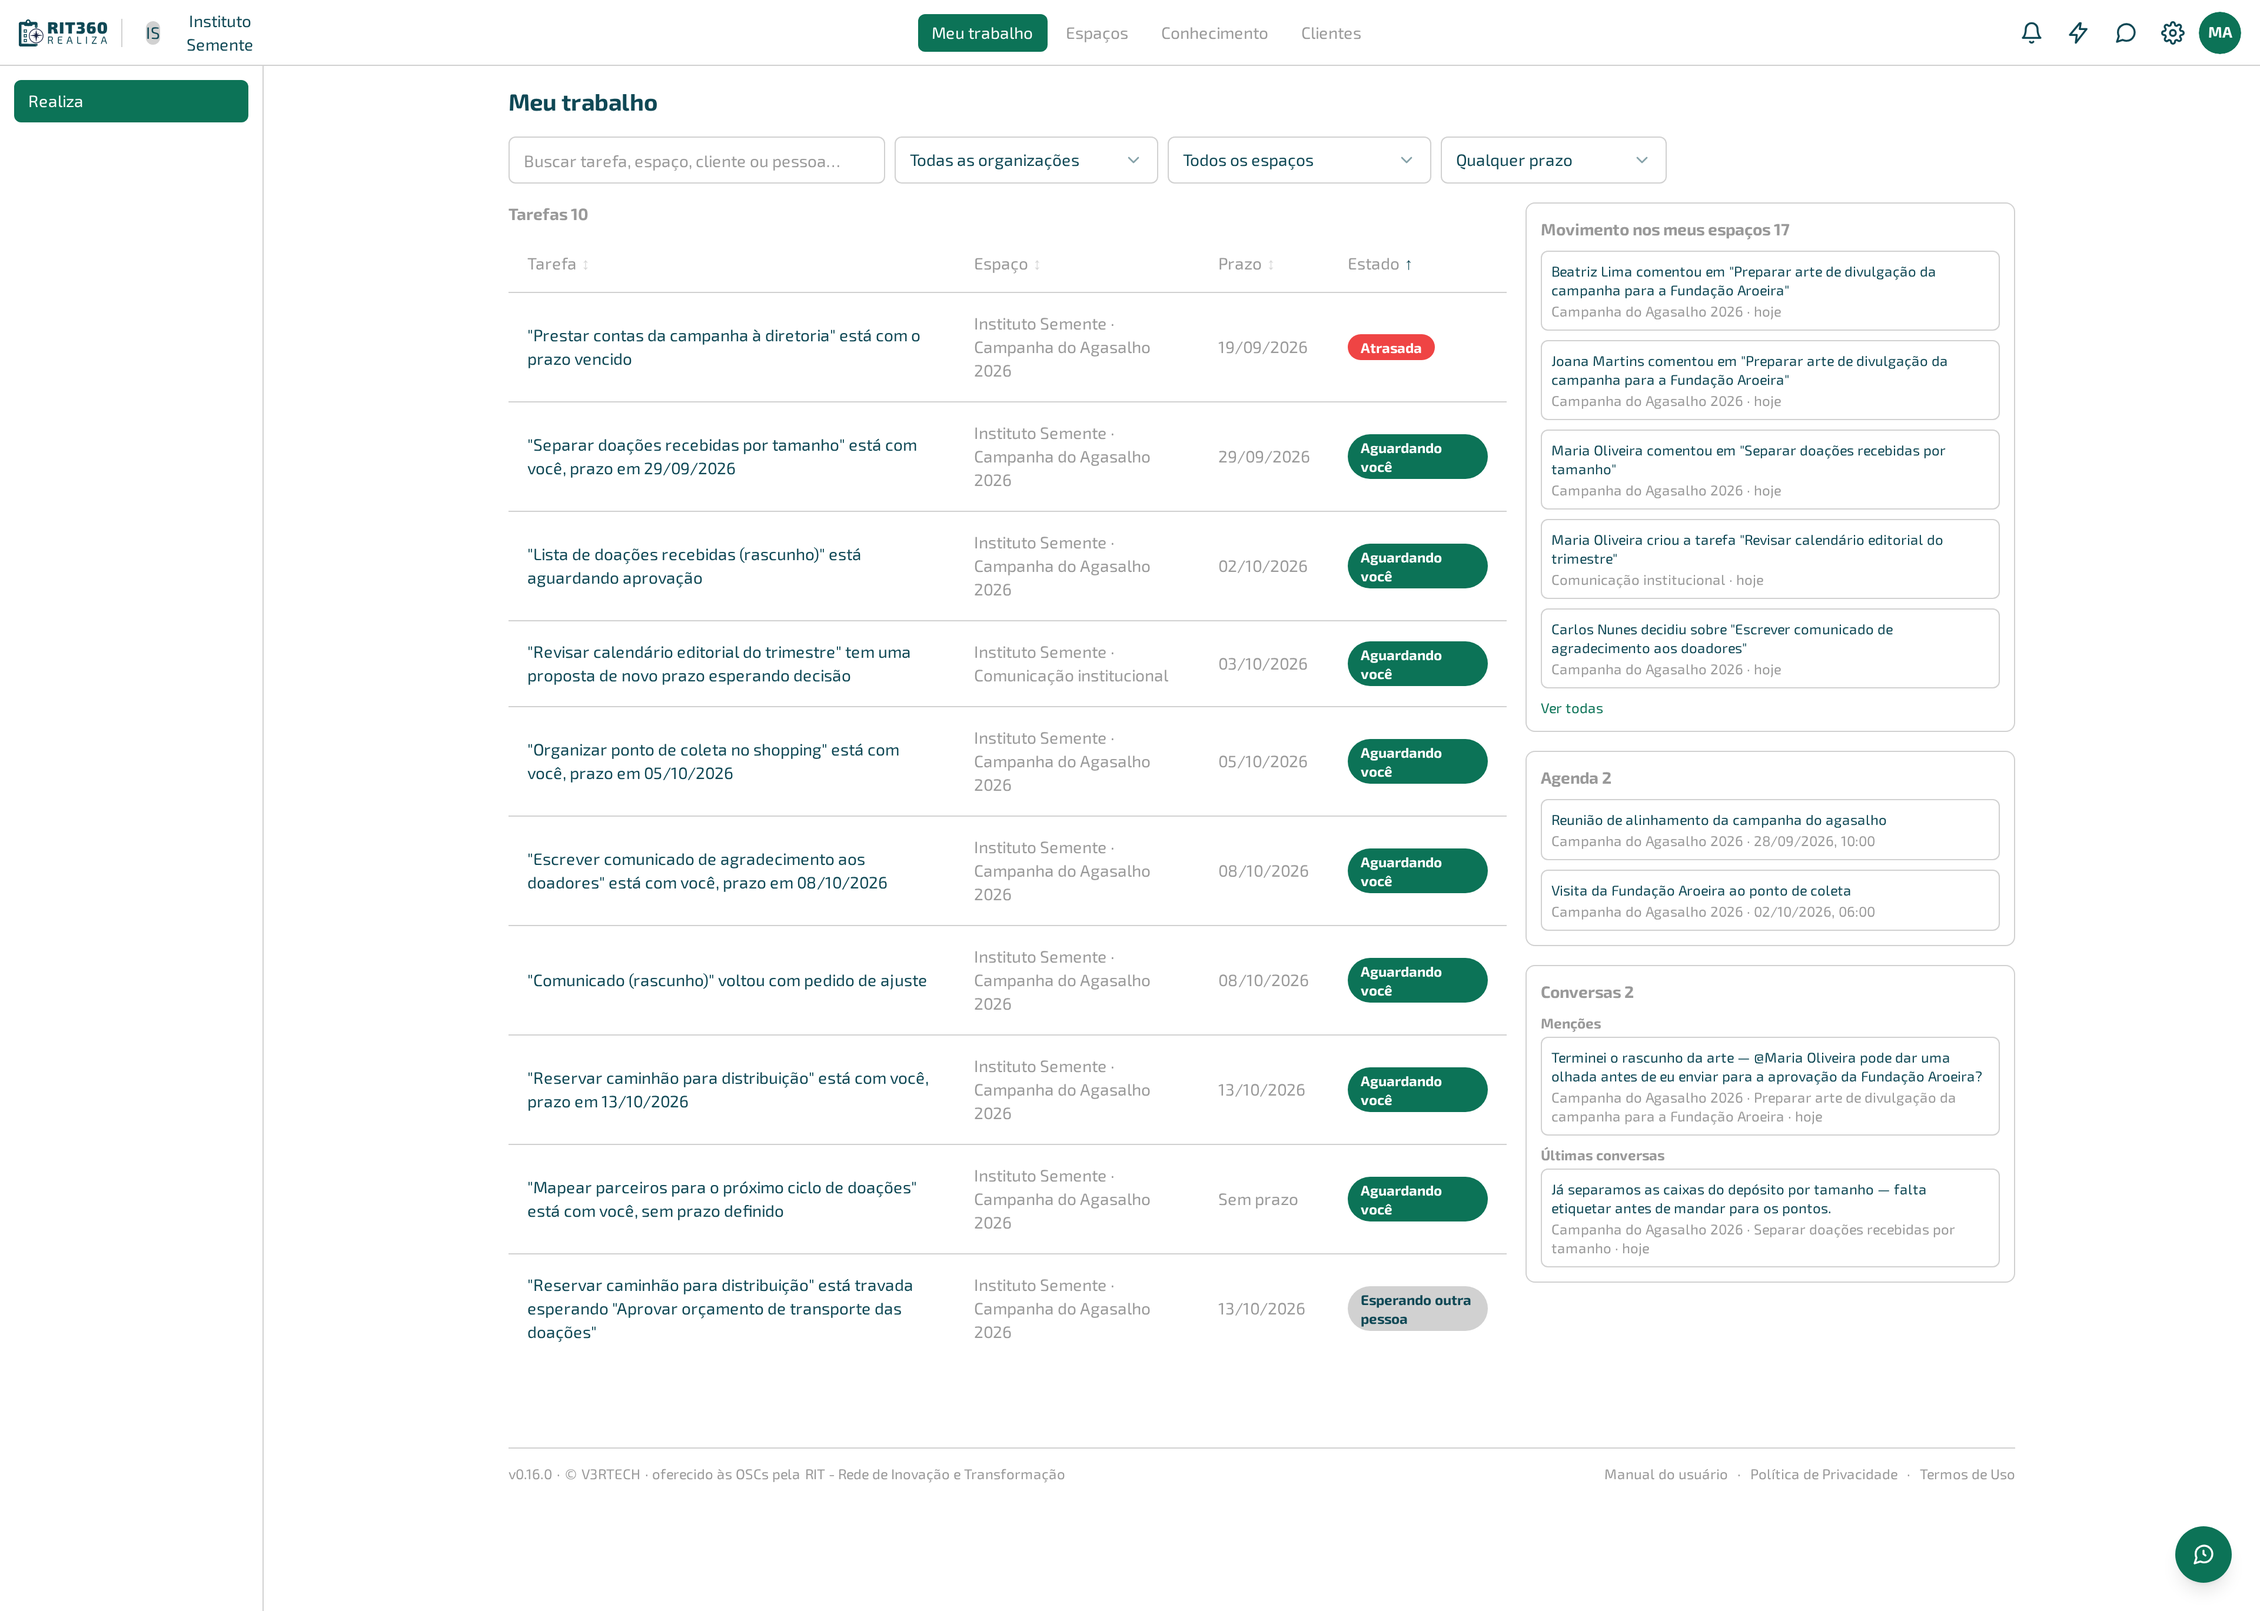
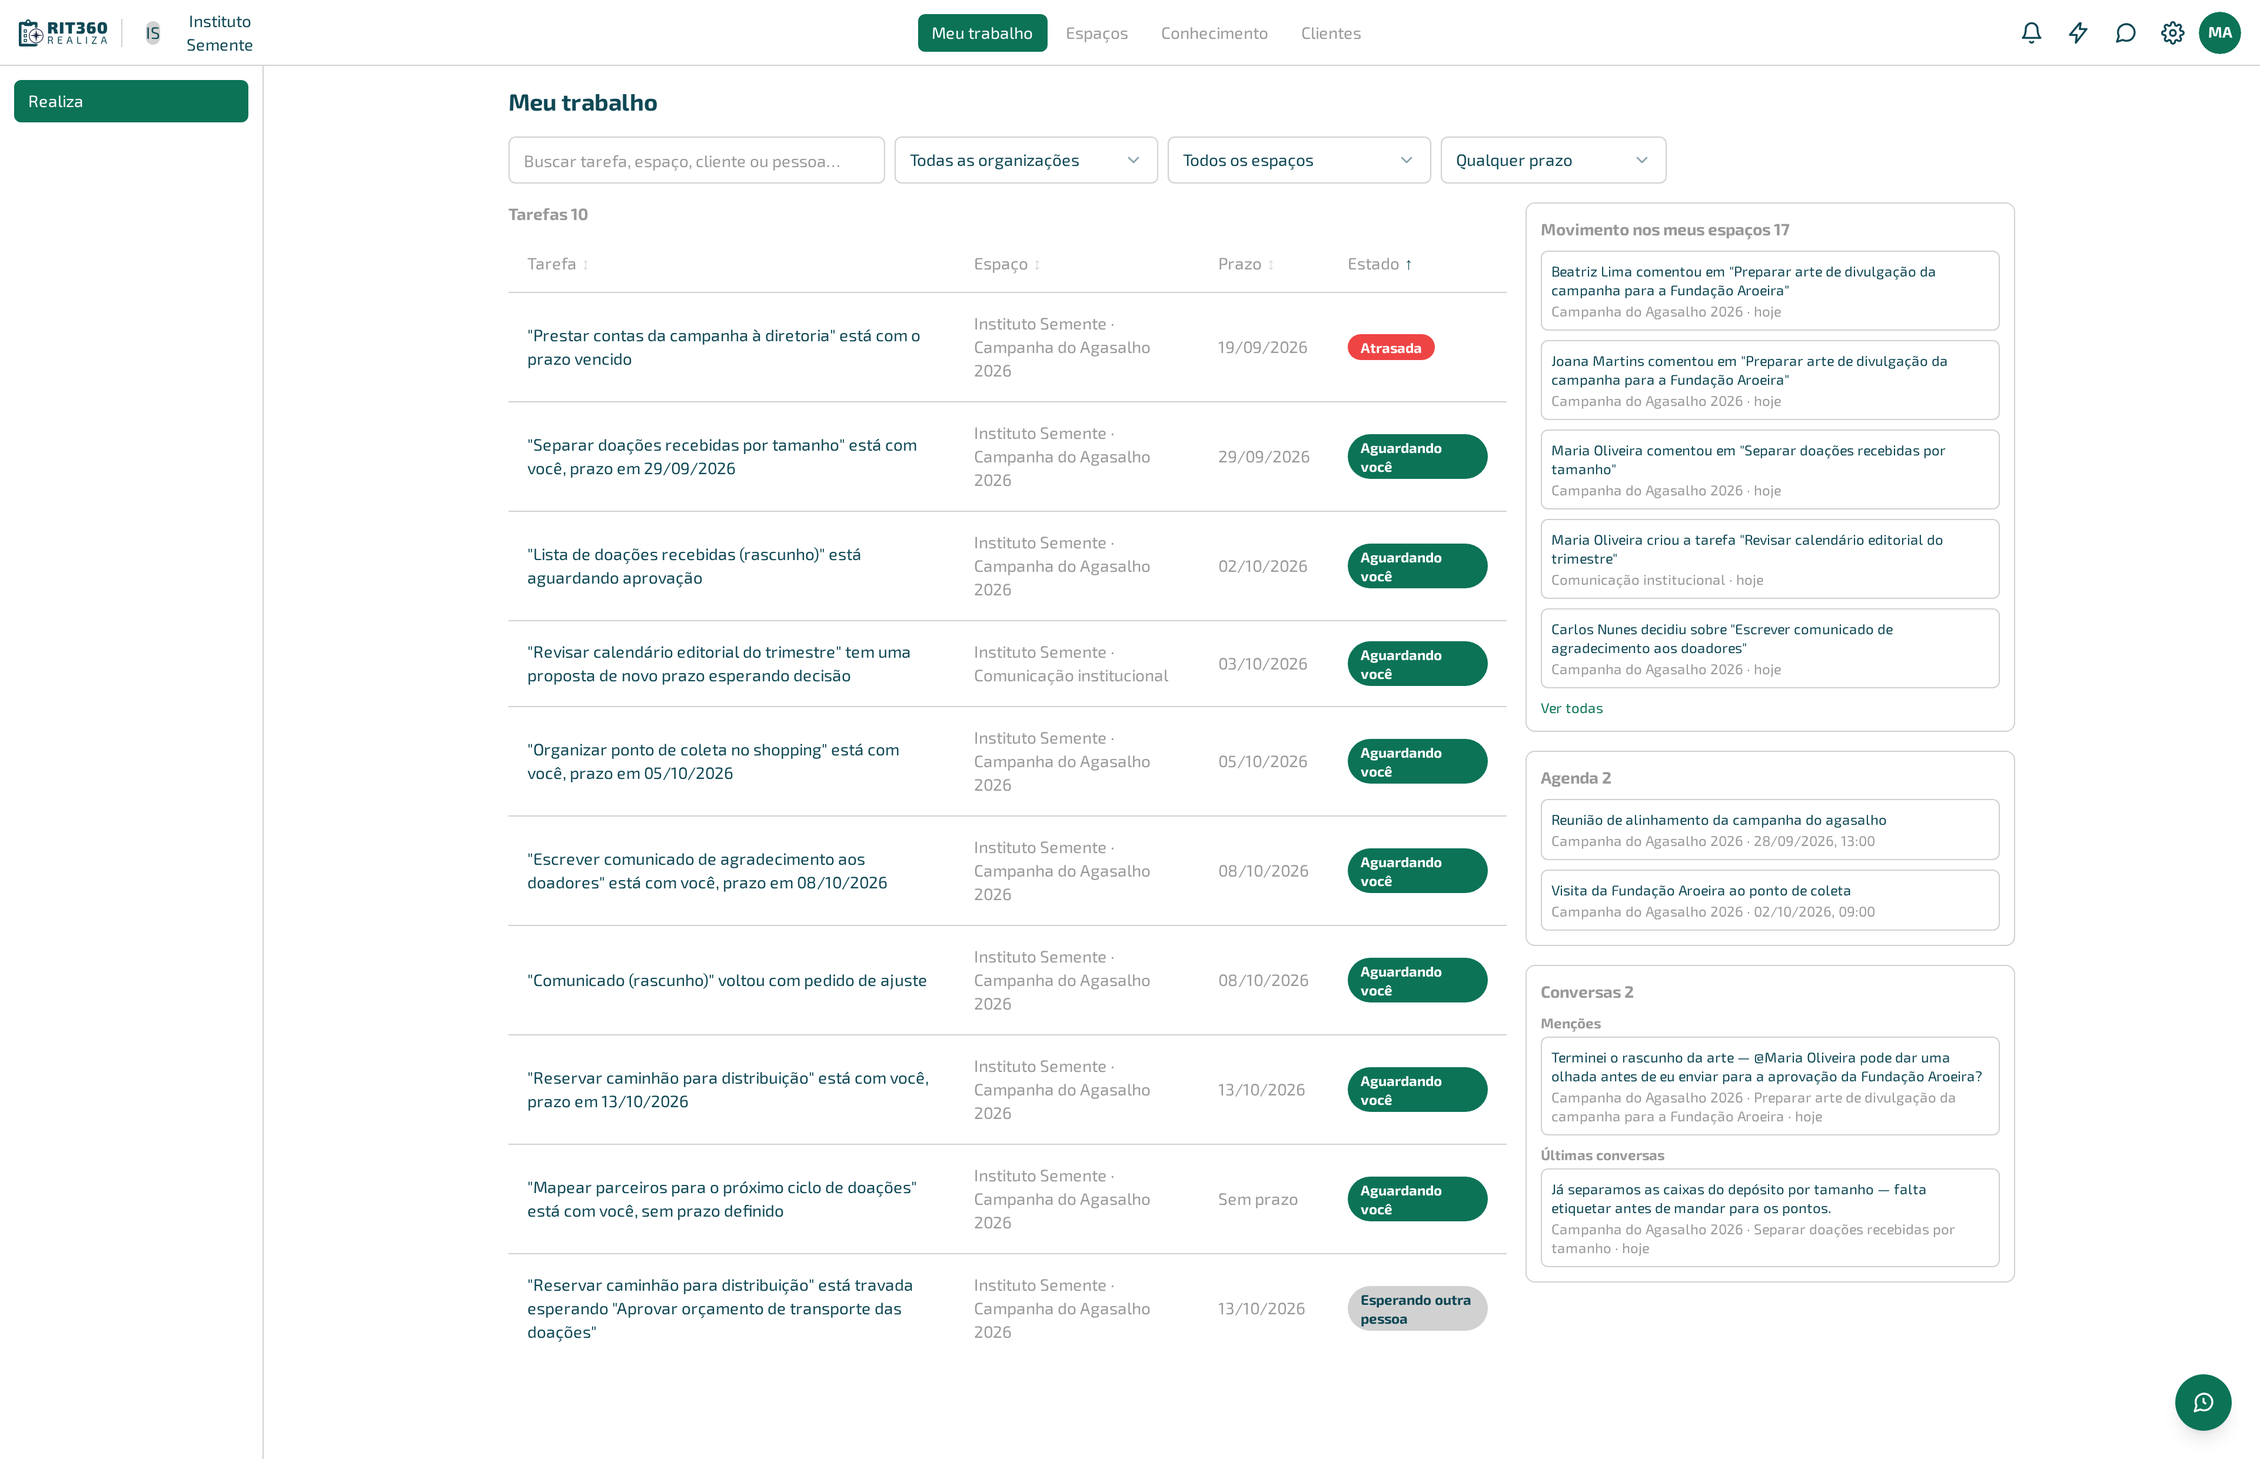
docs: refaz seis telas com o cenário completo e sem o carimbo de versão
O cenário de demonstração voltou a montar as quatro áreas que estavam
vazias (#161) e a agenda passou a ficar em horário de Brasília (#160), então
estas telas puderam ser refotografadas a partir de dado que o script monta
sozinho — antes elas dependiam de dado criado à mão, e não tinham como ser
recapturadas.

Refeitas: Meu trabalho, Conhecimento da organização, fila de triagem,
lista e detalhe de relatório. Todas sem o rodapé no enquadramento, que é
onde mora o número da versão.

A aba Indicadores ganhou a imagem que faltava: a página mostrava só os
diálogos, e não onde eles ficam.

diff --git a/trabalho/indicadores.md b/trabalho/indicadores.md
@@ -17,6 +17,14 @@ período, para você ver a evolução e para ele entrar automaticamente nos
 Indicadores são dado de trabalho interno: quem é **membro** ou **administrador** da organização vê
 e mexe neles; quem foi convidado de fora não os vê.
 
+![Aba "Indicadores" de um espaço, com um indicador cadastrado e os botões de ver os valores e remover](/assets/capturas/indicadores-lista-desktop.png)
+{: .mt-4 }
+
+A mesma tela no celular:
+
+![Aba "Indicadores" de um espaço, com um indicador cadastrado — no celular](/assets/capturas/indicadores-lista-celular.png){: style="max-width:375px" }
+{: .mt-4 }
+
 ## Criar um indicador
 
 1. Na aba **"Indicadores"**, clique em **"Novo indicador"**.
